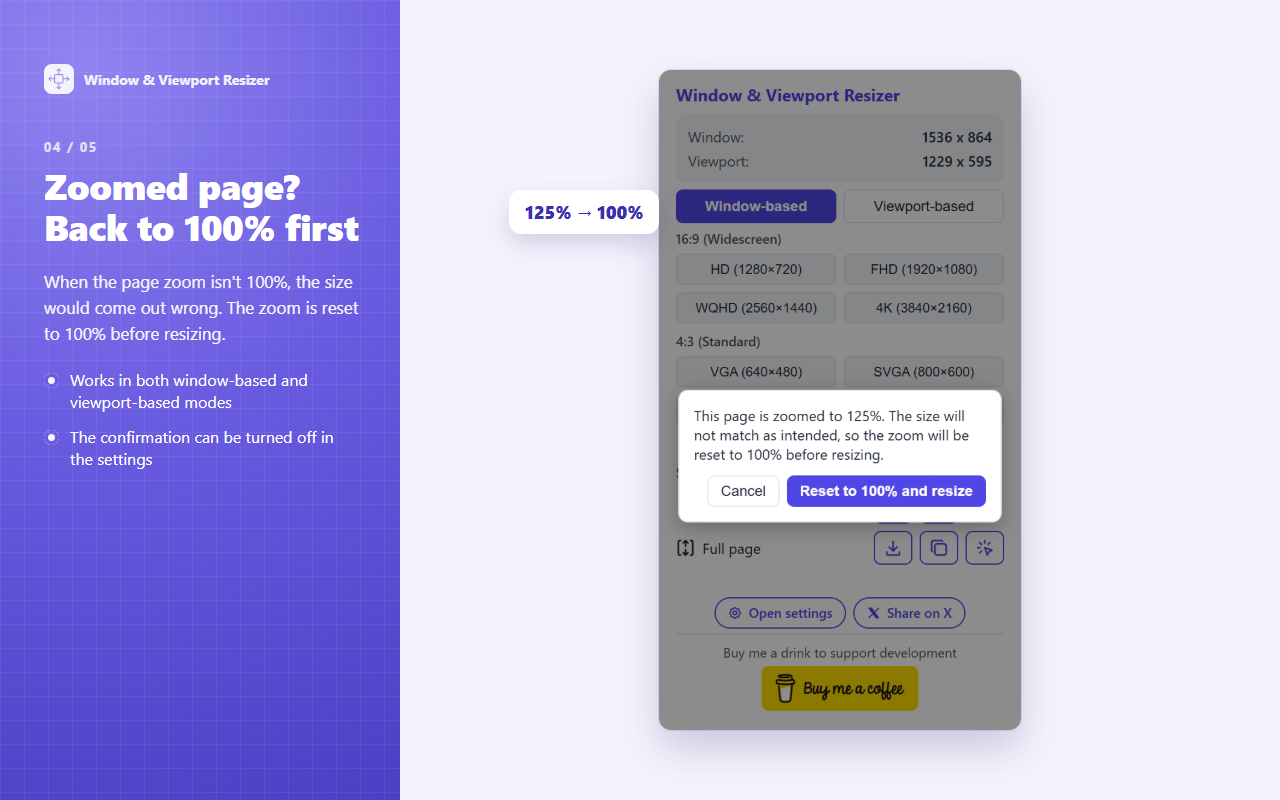
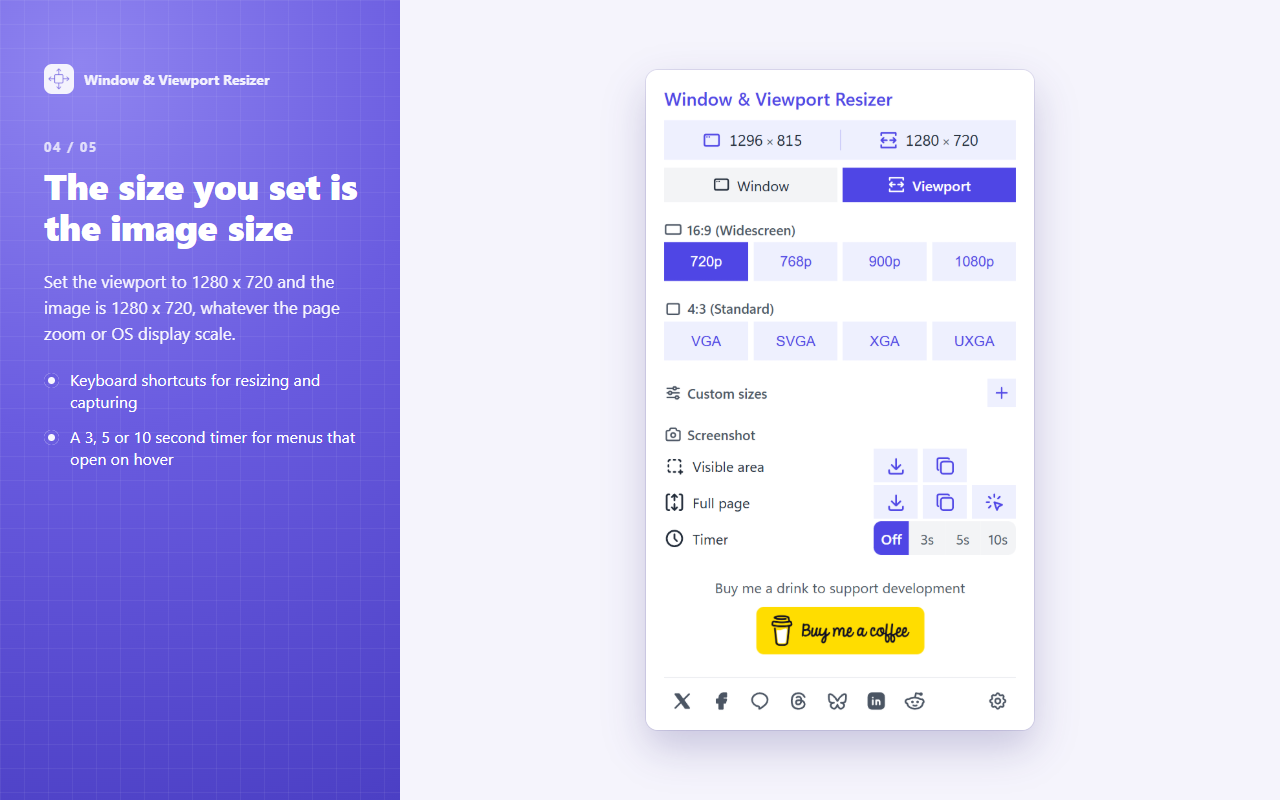
ストアと LP の資料を 1.0.0 に合わせる（1.0.0）
説明文に変更履歴を足し、スクリーンショット・プロモタイル・LP の画像を作り直す。
撮影のスクリプトを今の画面に合わせ、LP の矢印をまっすぐにする。

diff --git a/store/lp/page.ja.html b/store/lp/page.ja.html
@@ -15,7 +15,7 @@
     </div>
     <div class="hero-visual">
       <img class="hero-bg" src="https://www.ushiblo.com/images/2026/10/wvr-hero-bg.webp" alt="" width="1600" height="1000">
-      <img class="hero-popup" src="https://www.ushiblo.com/images/2026/10/wvr-popup-ja-040.webp" alt="拡張機能のポップアップ画面" width="300" height="552">
+      <img class="hero-popup" src="https://www.ushiblo.com/images/2026/11/wvr-popup-ja-100.webp" alt="拡張機能のポップアップ画面" width="300" height="511">
     </div>
   </section>
 
@@ -104,8 +104,8 @@
     <p class="sec-lead">&nbsp;</p>
     <div class="steps">
       <div class="step"><img class="step-img" src="https://www.ushiblo.com/images/2026/10/wvr-step-1.png" alt="拡張機能メニューからピン留めする画面" width="1200" height="750"><h3>インストール</h3><p>Chrome ウェブストアから追加し、ツールバーにピン留め。</p></div>
-      <div class="step"><img class="step-img" src="https://www.ushiblo.com/images/2026/10/wvr-step-2-040.webp" alt="ポップアップで基準とサイズを選ぶ画面" width="1200" height="750"><h3>サイズを選ぶ</h3><p>ポップアップから基準とサイズを選んでリサイズ。</p></div>
-      <div class="step"><img class="step-img" src="https://www.ushiblo.com/images/2026/10/wvr-step-3-040.webp" alt="スクリーンショットを保存した画面" width="1200" height="750"><h3>撮影して保存</h3><p>表示範囲かページ全体を選んで、保存またはコピー。結果はツールバーのアイコンに「OK」と表示されます。</p></div>
+      <div class="step"><img class="step-img" src="https://www.ushiblo.com/images/2026/11/wvr-step-2-100.webp" alt="ポップアップで基準とサイズを選ぶ画面" width="1200" height="750"><h3>サイズを選ぶ</h3><p>ポップアップから基準とサイズを選んでリサイズ。</p></div>
+      <div class="step"><img class="step-img" src="https://www.ushiblo.com/images/2026/11/wvr-step-3-100.webp" alt="スクリーンショットを保存した画面" width="1200" height="750"><h3>撮影して保存</h3><p>表示範囲かページ全体を選んで、保存またはコピー。結果はツールバーのアイコンに「OK」と表示されます。</p></div>
     </div>
   </section>
 
@@ -118,10 +118,13 @@
       <li>拡大表示中のページも、拡大率を変えずに指定のサイズへリサイズ</li>
       <li>スクロール範囲の撮影で、外枠を含めるか選べる</li>
       <li>撮影の結果をツールバーのアイコンでお知らせ</li>
+      <li>3・5・10秒のタイマー撮影で、ホバーで開くメニューも撮れる</li>
+      <li>キーボードショートカットを自由に割り当て</li>
+      <li>ウィンドウが画面からはみ出さないよう位置を自動で調整</li>
       <li>保存先フォルダ名を指定できる</li>
       <li>前回の基準・モードを記憶</li>
       <li>環境ごとのズレを補正オフセットで調整</li>
-      <li>ダークモード対応のポップアップ</li>
+      <li>ライト / ダーク / 自動から選べるテーマ</li>
       <li>日本語 / English 切り替え（ブラウザ言語に追従も可）</li>
     </ul>
   </section>
@@ -143,7 +146,7 @@
     <h2 class="sec-title">よくある質問</h2>
     <p class="sec-lead">&nbsp;</p>
     <details open=""><summary>動かないページがあります</summary><p>chrome:// で始まるページや Chrome ウェブストアなどの特殊なページでは、Chrome の仕様によりリサイズやキャプチャができません。</p></details>
-    <details><summary>指定したサイズと数 px ずれます</summary><p>OS の表示倍率やウィンドウ枠の影響です。設定画面のプリセットごとの補正オフセットで調整できます。</p></details>
+    <details><summary>指定したサイズと数 px ずれませんか？</summary><p>ビューポート基準では、OS の表示倍率が 125% などでも、指定したサイズと画像のサイズが同じになります。ウィンドウ基準では OS の表示倍率やウィンドウ枠の影響でずれることがあり、設定画面のプリセットごとの補正オフセットで調整できます。</p></details>
     <details><summary>ブラウザのツールバーも写りますか？</summary><p>いいえ。キャプチャされるのは Web ページの部分のみで、ツールバーや OS のウィンドウ枠は含まれません。</p></details>
     <details><summary>ページを拡大表示しているときのサイズは？</summary><p>拡大率はビューポートのサイズに影響しません。拡大したまま指定のサイズになり、撮影した画像も同じサイズになります。ページ全体の画像の高さは、拡大後のページの高さです。</p></details>
     <details><summary>ページ全体を撮っても1画面分しか撮れません</summary><p>ページの内側だけがスクロールする画面では、メインのスクロール範囲を自動で判定して撮影します。うまく判定できないときは、ポップアップの「ページ全体」の行にある範囲選択ボタン（カーソルのアイコン）を押し、撮りたい範囲をクリックして選んでください。</p></details>
@@ -153,7 +156,7 @@
   <!-- 11. GitHub -->
   <section class="sec">
     <h2 class="sec-title">更新情報・不具合報告</h2>
-    <p class="sec-lead">ソースコードは GitHub で公開しています。<br>最新バージョン：0.4.0（2026年10月31日）</p>
+    <p class="sec-lead">ソースコードは GitHub で公開しています。<br>最新バージョン：1.0.0（2026年11月6日）</p>
     <div class="gh">
       <a class="btn-ghost" href="https://github.com/uc4696/window-resizer-screenshot#バージョン管理変更履歴changelog" target="_blank" rel="noopener">📝 更新履歴を見る</a>
       <a class="btn-ghost" href="https://github.com/uc4696/window-resizer-screenshot/issues" target="_blank" rel="noopener">🐞 不具合・要望を送る（Issues）</a>

diff --git a/store/lp/page.en.html b/store/lp/page.en.html
@@ -15,7 +15,7 @@
     </div>
     <div class="hero-visual">
       <img class="hero-bg" src="https://www.ushiblo.com/images/2026/10/wvr-hero-bg.webp" alt="" width="1600" height="1000">
-      <img class="hero-popup" src="https://www.ushiblo.com/images/2026/10/wvr-popup-en-040.webp" alt="The extension popup" width="300" height="552">
+      <img class="hero-popup" src="https://www.ushiblo.com/images/2026/11/wvr-popup-en-100.webp" alt="The extension popup" width="300" height="509">
     </div>
   </section>
 
@@ -104,8 +104,8 @@
     <p class="sec-lead">&nbsp;</p>
     <div class="steps">
       <div class="step"><img class="step-img" src="https://www.ushiblo.com/images/2026/10/wvr-step-1-en.png" alt="Pinning the extension from the Extensions menu" width="1200" height="750"><h3>Install</h3><p>Add it from the Chrome Web Store and pin it to the toolbar.</p></div>
-      <div class="step"><img class="step-img" src="https://www.ushiblo.com/images/2026/10/wvr-step-2-en-040.webp" alt="Choosing a mode and size in the popup" width="1200" height="750"><h3>Pick a size</h3><p>Choose a mode and a size in the popup to resize.</p></div>
-      <div class="step"><img class="step-img" src="https://www.ushiblo.com/images/2026/10/wvr-step-3-en-040.webp" alt="A saved screenshot" width="1200" height="750"><h3>Capture and save</h3><p>Capture the visible area or the full page, then save or copy it. The toolbar icon shows "OK" when it's done.</p></div>
+      <div class="step"><img class="step-img" src="https://www.ushiblo.com/images/2026/11/wvr-step-2-en-100.webp" alt="Choosing a mode and size in the popup" width="1200" height="750"><h3>Pick a size</h3><p>Choose a mode and a size in the popup to resize.</p></div>
+      <div class="step"><img class="step-img" src="https://www.ushiblo.com/images/2026/11/wvr-step-3-en-100.webp" alt="A saved screenshot" width="1200" height="750"><h3>Capture and save</h3><p>Capture the visible area or the full page, then save or copy it. The toolbar icon shows "OK" when it's done.</p></div>
     </div>
   </section>
 
@@ -118,10 +118,13 @@
       <li>Resizes zoomed pages to the size you set without changing the zoom</li>
       <li>Choose whether to include the surrounding frame when capturing a scrollable area</li>
       <li>The toolbar icon shows the capture result</li>
+      <li>A 3, 5 or 10 second timer, for capturing menus that open on hover</li>
+      <li>Assign your own keyboard shortcuts</li>
+      <li>Moves the window automatically so it stays on the screen</li>
       <li>Choose the download folder name</li>
       <li>Remembers your last mode and basis</li>
       <li>Fix small size differences with per-preset offsets</li>
-      <li>Dark mode popup</li>
+      <li>Choose a light, dark or automatic theme</li>
       <li>English / Japanese, or follow the browser language</li>
     </ul>
   </section>
@@ -143,7 +146,7 @@
     <h2 class="sec-title">FAQ</h2>
     <p class="sec-lead">&nbsp;</p>
     <details open><summary>It doesn't work on some pages</summary><p>Chrome doesn't allow extensions to resize or capture special pages, such as those starting with chrome:// or the Chrome Web Store.</p></details>
-    <details><summary>The size is off by a few pixels</summary><p>This comes from your OS display scaling or window borders. You can correct it with the per-preset offsets in the settings.</p></details>
+    <details><summary>Can the size be off by a few pixels?</summary><p>In viewport-based mode, the size you set is the size of the image, even at an OS display scale such as 125%. In window-based mode, OS display scaling and window borders can cause small differences, which you can correct with the per-preset offsets in the settings.</p></details>
     <details><summary>Are the browser toolbars captured too?</summary><p>No. Only the web page itself is captured, without the toolbars or the OS window frame.</p></details>
     <details><summary>What size do I get when the page is zoomed?</summary><p>Zoom does not affect the viewport size. The page stays zoomed at the size you set, and the captured image has the same size. A full-page image is as tall as the zoomed page.</p></details>
     <details><summary>Full-page capture only takes one screen</summary><p>On pages where only an inner area scrolls, the main scrollable area is detected and captured automatically. If that doesn't work, press the area-picking button (the cursor icon) in the "Full page" row of the popup, then click the area you want.</p></details>
@@ -153,7 +156,7 @@
   <!-- 11. GitHub -->
   <section class="sec">
     <h2 class="sec-title">Updates and feedback</h2>
-    <p class="sec-lead">The source code is available on GitHub.<br>Latest version: 0.4.0 (October 31, 2026)</p>
+    <p class="sec-lead">The source code is available on GitHub.<br>Latest version: 1.0.0 (November 6, 2026)</p>
     <div class="gh">
       <a class="btn-ghost" href="https://github.com/uc4696/window-resizer-screenshot/blob/main/README.en.md" target="_blank" rel="noopener">📝 View the changelog</a>
       <a class="btn-ghost" href="https://github.com/uc4696/window-resizer-screenshot/issues" target="_blank" rel="noopener">🐞 Report a bug or request a feature</a>

diff --git a/store/lp/compose.html b/store/lp/compose.html
@@ -16,6 +16,7 @@
 </head>
 <body>
 <img class="layer" id="bg">
+<canvas class="layer" id="patch" width="1200" height="750"></canvas>
 <div id="frame"></div>
 <img id="popup">
 <div id="tip">1920 x 1080</div>
@@ -52,8 +53,8 @@
   })
   if (step === "2") {
     // FHD ボタンを囲む楕円（右下から始まり一周して少し行き過ぎる）
-    const f = at(b.fhd), cx = f.x + f.w / 2 - 6, cy = f.y + f.h / 2 + 2
-    const rx = 132, ry = 42
+    const f = at(b.fhd), cx = f.x + f.w / 2, cy = f.y + f.h / 2 + 1
+    const rx = 62, ry = 34
     const pts = []
     for (let t = 0.25; t <= 2 * Math.PI + 0.75; t += 0.05) {
       const a = -0.09, x = rx * Math.cos(t) * (1 + 0.04 * Math.sin(3 * t)), y = ry * Math.sin(t)
@@ -62,32 +63,28 @@
     mark.setAttribute("d", "M" + pts.map((p) => p.map((v) => v.toFixed(1)).join(" ")).join(" L"))
     Object.assign(tip.style, { display: "block", left: S.tip[0] + "px", top: S.tip[1] + "px" })
   } else {
-    // 表示部分のダウンロードボタンを囲み、そのまま右のエクスプローラーへ矢印を伸ばす
-    const d = at(b.visibleDownload), cx = d.x + d.w / 2 + 1, cy = d.y + d.h / 2 + 3
-    const rx = 48, ry = 30, pts = []
-    for (let t = -0.6; t <= 2 * Math.PI - 0.9; t += 0.05) {
+    // 旧画像に焼き込まれた矢印を、すぐ上の何もない帯を引き伸ばして消す
+    bg.onload = () => {
+      const ctx = patch.getContext("2d")
+      ctx.drawImage(bg, 430, 346, 176, 24, 430, 396, 176, 100) // ポップアップの右〜サムネイルの左
+      ctx.drawImage(bg, 606, 382, 44, 18, 606, 400, 44, 96) // サムネイルの上
+    }
+    // 表示部分のダウンロードボタンを囲み、行の間を通るまっすぐな矢印でエクスプローラーへ伸ばす
+    const d = at(b.visibleDownload), cx = d.x + d.w / 2, cy = d.y + d.h / 2
+    const rx = 32, ry = 24, pts = []
+    for (let t = 0.2; t <= 2 * Math.PI + 0.5; t += 0.05) {
       const a = -0.12, x = rx * Math.cos(t), y = ry * Math.sin(t)
       pts.push([cx + x * Math.cos(a) - y * Math.sin(a), cy + x * Math.sin(a) + y * Math.cos(a)])
     }
-    // 旧画像に残る矢印の軸（ポップアップの外、x=436〜584）を実測した中心線。
-    // この上を同じ太さでなぞり直し、楕円から一本の線としてつなげる（矢じりは旧画像のまま）。
-    const shaft = [[436, 450.5], [448, 445], [460, 441], [472, 438.5], [484, 435.5], [496, 434.5],
-      [508, 433.5], [520, 433.5], [544, 432.5], [568, 433.5], [584, 434.5]]
-    const last = pts[pts.length - 1], [s0, s1] = shaft
-    const tx = s1[0] - s0[0], ty = s1[1] - s0[1], tl = Math.hypot(tx, ty)
-    const c1 = [last[0] + 28, last[1] - 6]
-    const c2 = [s0[0] - (tx / tl) * 32, s0[1] - (ty / tl) * 32]
-    const smooth = shaft.slice(1).map((p, i) => {
-      const prev = shaft[i], mid = [(prev[0] + p[0]) / 2, (prev[1] + p[1]) / 2]
-      return `Q ${prev[0]} ${prev[1]} ${mid[0]} ${mid[1]}`
-    }).join(" ")
+    const start = [cx + rx * 0.8, cy + ry * 0.8], tip = [632, 444]
+    const angle = Math.atan2(tip[1] - start[1], tip[0] - start[0])
+    const barb = (d) => [tip[0] - 38 * Math.cos(angle + d), tip[1] - 38 * Math.sin(angle + d)]
     mark.setAttribute(
       "d",
       "M" + pts.map((p) => p.map((v) => v.toFixed(1)).join(" ")).join(" L") +
-        ` C ${c1.join(" ")} ${c2.join(" ")} ${s0.join(" ")} ${smooth} L ${shaft[shaft.length - 1].join(" ")}`
+        ` M ${start.join(" ")} L ${tip.join(" ")} M ${barb(0.65).join(" ")} L ${tip.join(" ")} L ${barb(-0.65).join(" ")}`
     )
     mark.setAttribute("stroke", "rgb(124, 114, 238)")
-    mark.setAttribute("stroke-width", "11")
   }
 </script>
 </body>

diff --git a/store/screenshots/slides.html b/store/screenshots/slides.html
@@ -47,7 +47,7 @@
     1: {
       title: "Resize to an exact size, then capture",
       desc: "Switch the window or the viewport to a preset or your own size in one click, then save the visible area or the whole page.",
-      extra: `<div class="chips">${["HD", "FHD", "WQHD", "4K", "VGA", "SVGA", "XGA", "UXGA", "Custom sizes"].map((c) => `<span class="chip">${c}</span>`).join("")}</div>`,
+      extra: `<div class="chips">${["HD", "WXGA", "HD+", "FHD", "VGA", "SVGA", "XGA", "UXGA", "Custom sizes"].map((c) => `<span class="chip">${c}</span>`).join("")}</div>`,
       stage: `<img class="shot" src="wvr-step-2-en.png" style="width:820px">`
     },
     2: {
@@ -64,17 +64,16 @@
       stage: `<img class="shot" src="picker.png" style="width:820px">`
     },
     4: {
-      title: "Zoomed page? Back to 100% first",
-      desc: "When the page zoom isn't 100%, the size would come out wrong. The zoom is reset to 100% before resizing.",
-      extra: `<ul><li>Works in both window-based and viewport-based modes</li><li>The confirmation can be turned off in the settings</li></ul>`,
-      stage: `<div style="position:relative"><img class="shot" src="zoom.png" style="height:660px">
-              <div class="tag" style="left:-150px;top:120px">125% &rarr; 100%</div></div>`
+      title: "The size you set is the image size",
+      desc: "Set the viewport to 1280 x 720 and the image is 1280 x 720, whatever the page zoom or OS display scale.",
+      extra: `<ul><li>Keyboard shortcuts for resizing and capturing</li><li>A 3, 5 or 10 second timer for menus that open on hover</li></ul>`,
+      stage: `<div style="position:relative"><img class="shot" src="popup.png" style="height:660px"></div>`
     },
     5: {
       title: "Save it your way",
       desc: "",
       extra: `<ul><li>PNG, WebP or JPEG</li><li>Copy to the clipboard as PNG</li><li>Choose the save folder name</li>
-              <li>The result appears as a badge on the toolbar icon</li><li>Dark mode, English / Japanese</li>
+              <li>The result appears as a badge on the toolbar icon</li><li>Light and dark themes, English / Japanese</li>
               <li>Only 4 permissions. Your screenshots and settings never leave your browser</li></ul>`,
       stage: `<img class="shot" src="options-crop.png" style="height:690px">`
     }

diff --git a/store/lp/1.0.0.md b/store/lp/1.0.0.md
@@ -1,0 +1,65 @@
+# LP 修正文案（1.0.0 反映）
+
+対象: https://www.ushiblo.com/window-viewport-resizer/ ・ https://www.ushiblo.com/en/window-viewport-resizer-en/
+
+本番の本文は 0.4.0 の内容で、手元の正本と同じ（2026-11-06 に確認）。各項目は「場所 → 操作 → 文案（日 / 英）」の順。
+
+---
+
+## 1. 内蔵プリセット
+
+**操作**: 16:9 の表を差し替え。
+
+- HD 1280 × 720 / WXGA 1366 × 768 / HD+ 1600 × 900 / FHD 1920 × 1080（WQHD と 4K を消す。4:3 は変えない）
+
+## 2. 細かいところも便利に
+
+**操作**: 1 行差し替え、1 行差し替え、3 行追加。
+
+- 差し替え（日）: 拡大表示中のページも、拡大率を変えずに指定のサイズへリサイズ
+- 差し替え（英）: Resizes zoomed pages to the size you set without changing the zoom
+- 差し替え（日）: ライト / ダーク / 自動から選べるテーマ
+- 差し替え（英）: Choose a light, dark or automatic theme
+- 追加（日）:
+  - 3・5・10秒のタイマー撮影で、ホバーで開くメニューも撮れる
+  - キーボードショートカットを自由に割り当て
+  - ウィンドウが画面からはみ出さないよう位置を自動で調整
+- 追加（英）:
+  - A 3, 5 or 10 second timer, for capturing menus that open on hover
+  - Assign your own keyboard shortcuts
+  - Moves the window automatically so it stays on the screen
+
+## 3. よくある質問
+
+**操作**: 2 問を差し替え。
+
+### 拡大表示
+- 日（問）: ページを拡大表示しているときのサイズは？
+- 日（答）: 拡大率はビューポートのサイズに影響しません。拡大したまま指定のサイズになり、撮影した画像も同じサイズになります。ページ全体の画像の高さは、拡大後のページの高さです。
+- 英（問）: What size do I get when the page is zoomed?
+- 英（答）: Zoom does not affect the viewport size. The page stays zoomed at the size you set, and the captured image has the same size. A full-page image is as tall as the zoomed page.
+
+### 数 px のズレ
+- 日（問）: 指定したサイズと数 px ずれませんか？
+- 日（答）: ビューポート基準では、OS の表示倍率が 125% などでも、指定したサイズと画像のサイズが同じになります。ウィンドウ基準では OS の表示倍率やウィンドウ枠の影響でずれることがあり、設定画面のプリセットごとの補正オフセットで調整できます。
+- 英（問）: Can the size be off by a few pixels?
+- 英（答）: In viewport-based mode, the size you set is the size of the image, even at an OS display scale such as 125%. In window-based mode, OS display scaling and window borders can cause small differences, which you can correct with the per-preset offsets in the settings.
+
+## 4. 更新情報
+
+**操作**: 「最新バージョン」の行を差し替え。
+
+- 日: 最新バージョン：1.0.0（2026年11月6日）
+- 英: Latest version: 1.0.0 (November 6, 2026)
+
+## 5. 画像
+
+ポップアップの見た目が 0.4.0 から変わったので、ポップアップが写っている画像は古い。`store/lp/shoot-lp.cjs` → `store/lp/render-lp.cjs` で作り直す（未作成）。
+
+| 場所 | ファイル | 対応 |
+| --- | --- | --- |
+| 冒頭のポップアップ | `wvr-popup-{ja,en}.png` | 差し替え |
+| ステップ 2 | `wvr-step-2{,-en}.png` | 差し替え |
+| ステップ 3 | `wvr-step-3{,-en}.png` | 差し替え |
+
+取り込みの名前は `-100` を付ける（例: `wvr-step-2-100.png`）。
